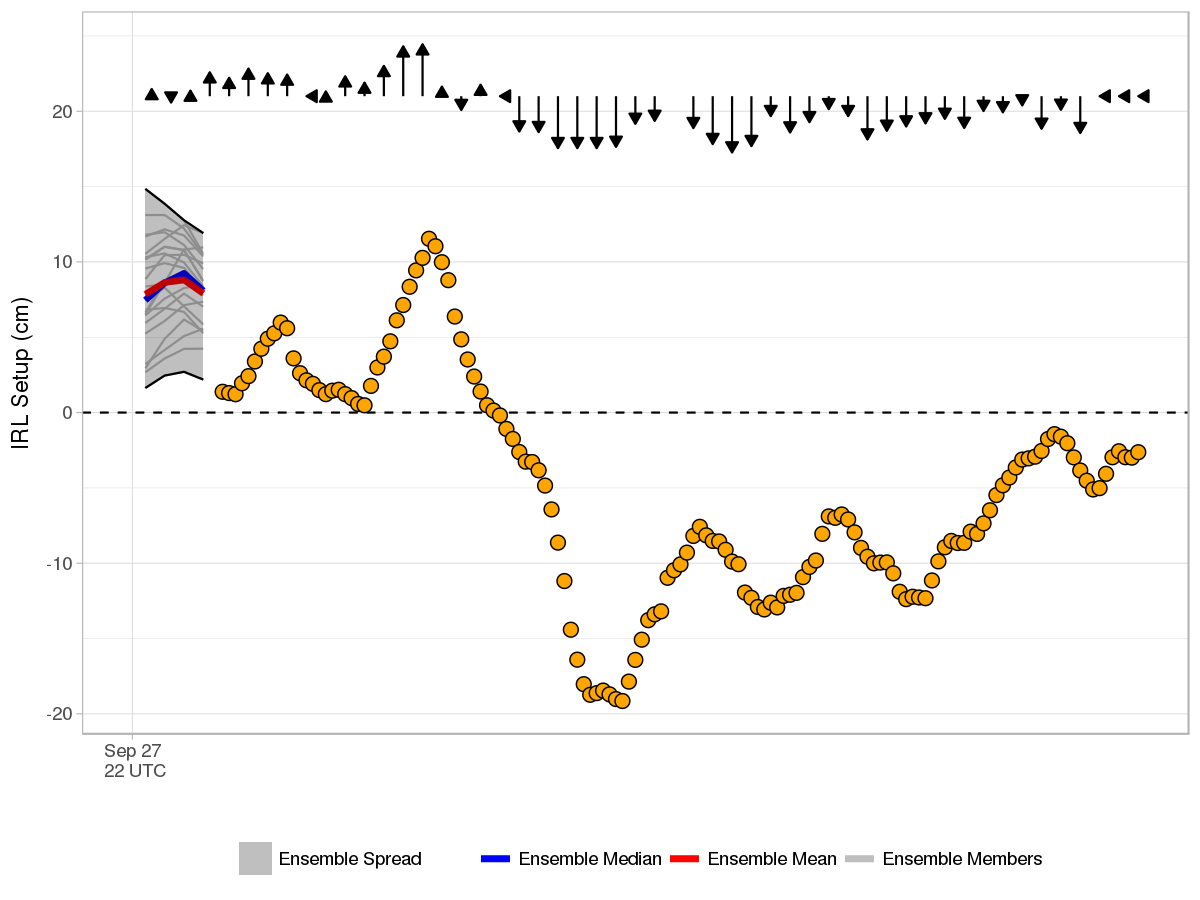
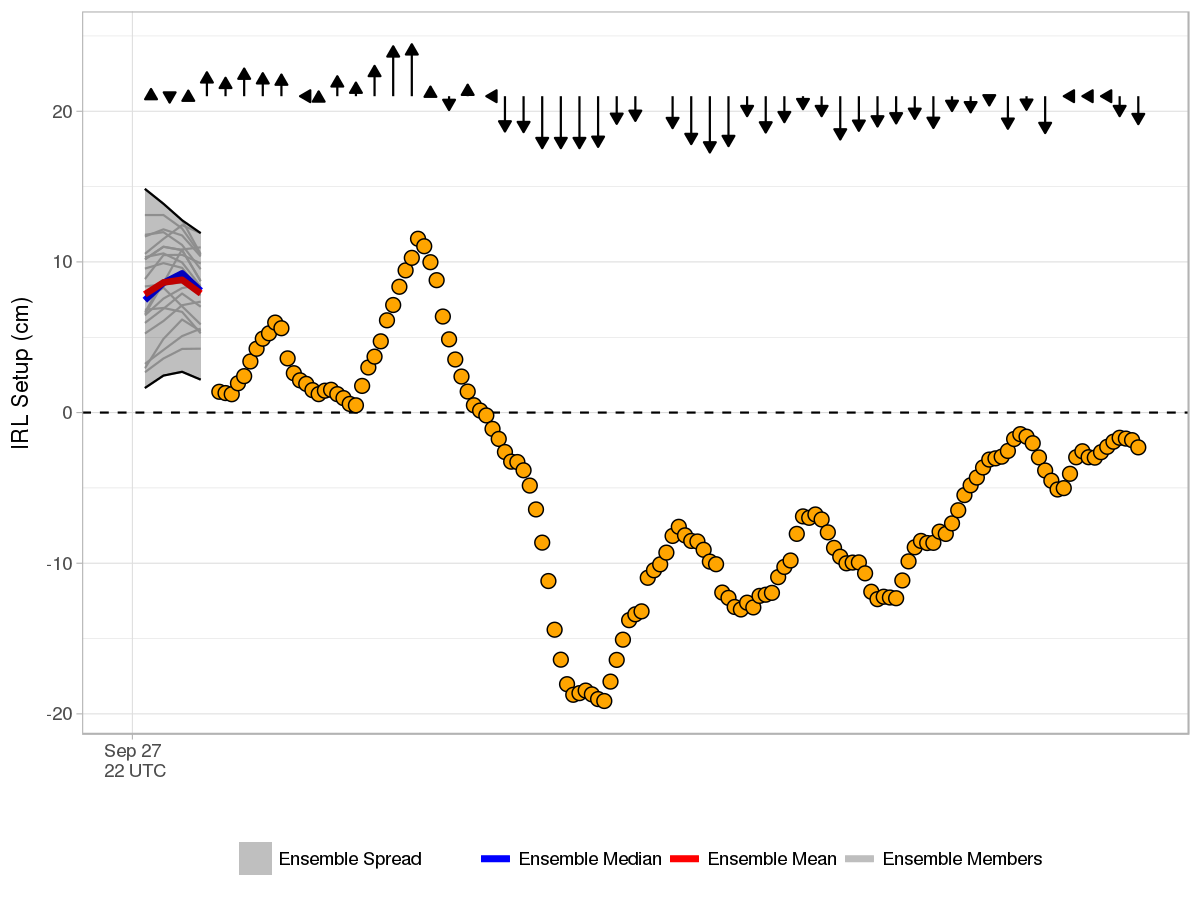
Forecast Update 2020100412

diff --git a/docs/index.md b/docs/index.md
@@ -1,9 +1,9 @@
-Current Forecast 2020-10-04 06Z
+Current Forecast 2020-10-04 12Z
 -----------------------------------
 
 [![](img/raw_setup.png)](https://fit-winds.github.io/IRLSetup/img/raw_setup.png)
 
-> Forecast valid 2020-10-04 07:02:34.
+> Forecast valid 2020-10-04 13:03:55.
 
 Explanation
 -----------
